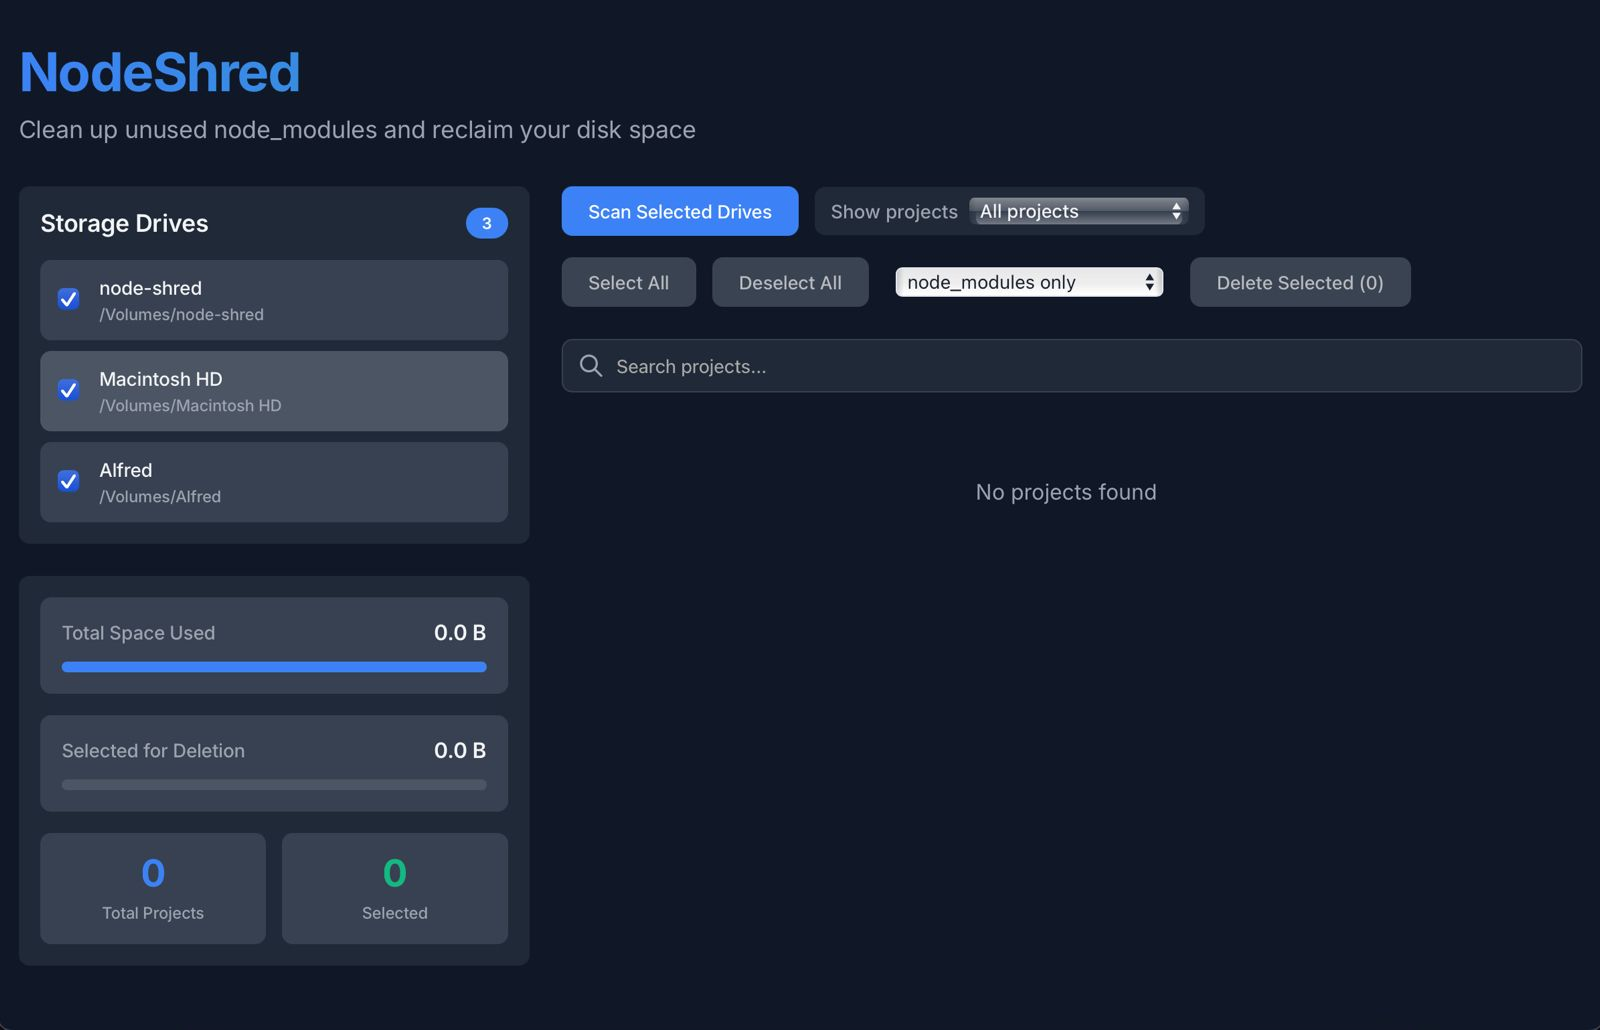
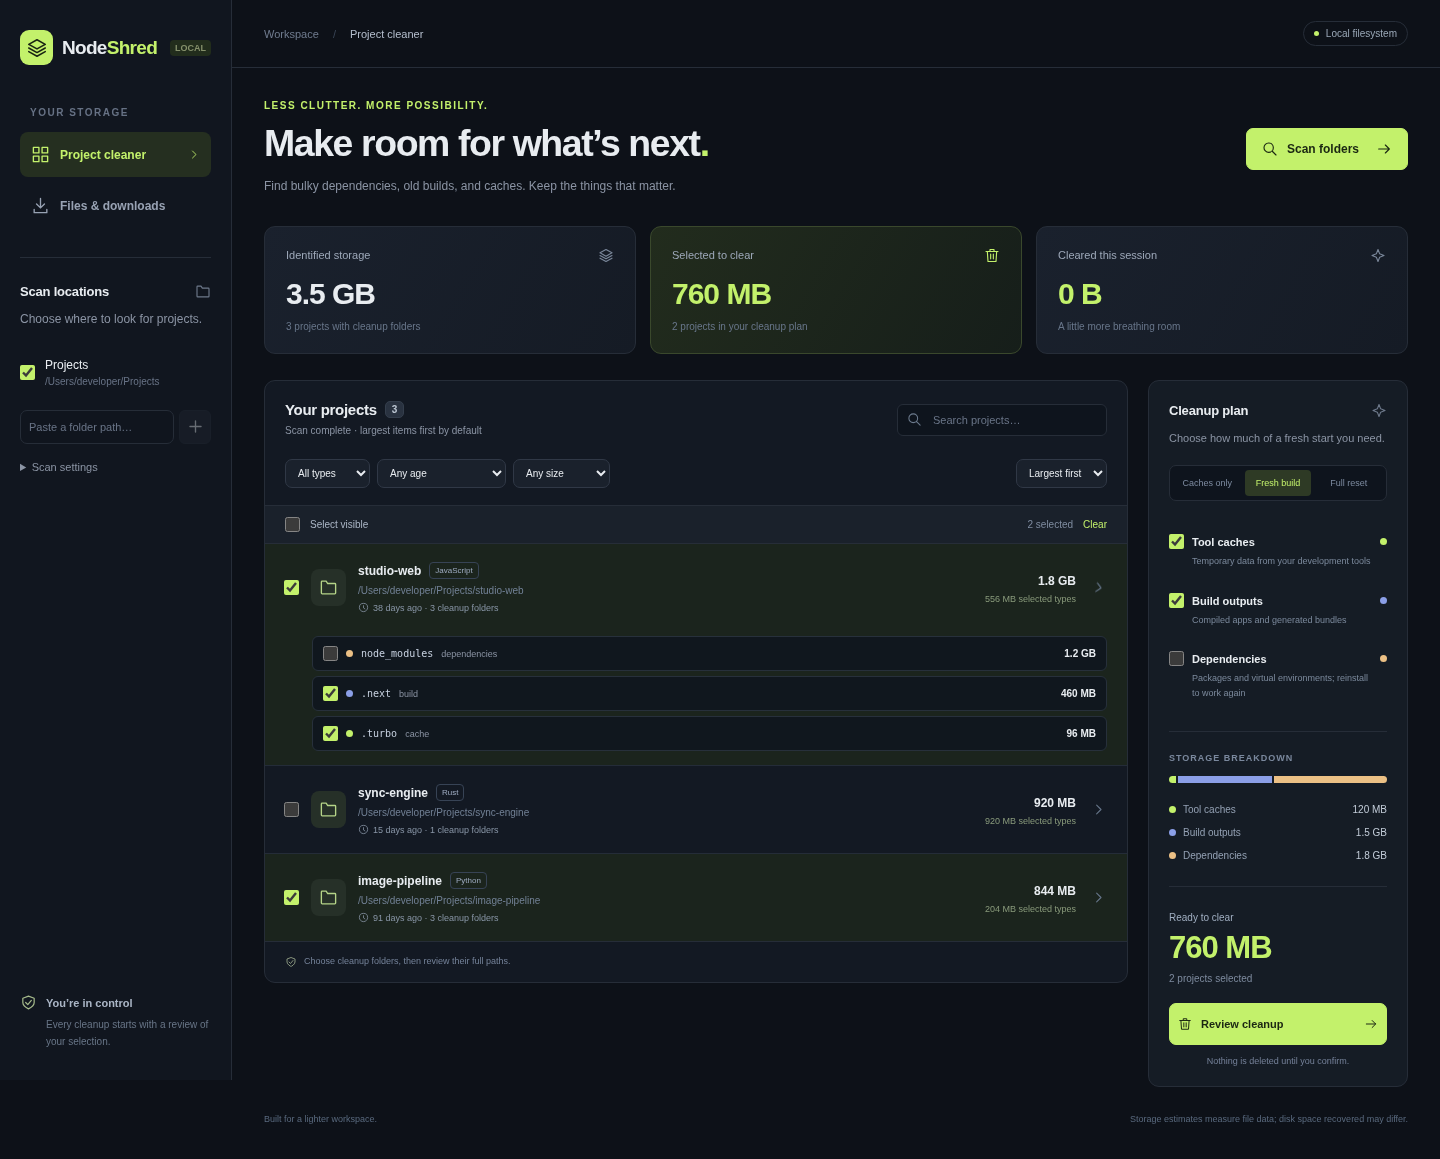
Build 0.2.0 release installers and refresh UI screenshots

diff --git a/README.md b/README.md
@@ -2,7 +2,17 @@
 
 NodeShred is a powerful desktop application built with Tauri and React that helps you reclaim disk space by cleaning up unused node_modules and build directories from your projects.
 
-![NodeShred Screenshot](./public/screenshot.png)
+![NodeShred project cleaner](./public/screenshot.png)
+
+*Project cleaner with example projects, per-folder selection, and a storage breakdown.*
+
+![Files and downloads cleanup](./public/files-cleanup.png)
+
+*Files & downloads with example archives, media, installers, and documents.*
+
+![Cleanup review](./public/cleanup-review.png)
+
+*Full paths and selected folders are shown before confirming permanent deletion. Screenshots use demonstration data.*
 
 ## Features
 
@@ -151,3 +161,9 @@ bash scripts/install-macos.sh
 ```
 
 The helper checks Apple Command Line Tools, installs missing Bun/Rust through Homebrew when available, builds the app for your Mac, and installs it in `~/Applications/NodeShred.app`. An existing app at that location is backed up before replacement. If Command Line Tools or prerequisites need manual installation, follow the printed instructions and rerun the helper. The macOS installer has been syntax-checked; the native macOS build still needs validation on a Mac.
+
+## Automated release builds
+
+Pushing to `release` runs the Release workflow: validation first, then macOS universal (Apple Silicon and Intel), Windows, and Linux DEB/AppImage builds. Installers are uploaded to a draft and published as a prerelease only after every platform succeeds. Branch builds use tags such as `preview-v0.2.0-<commit>`, so each build has its own download page. The same workflow can be run manually in GitHub Actions.
+
+To publish a stable release, keep the versions in `package.json`, `src-tauri/Cargo.toml`, and `src-tauri/tauri.conf.json` aligned, then push a matching tag such as `v0.2.0`. macOS and Windows installers currently have no distribution signing certificates, and macOS builds are not notarized.
